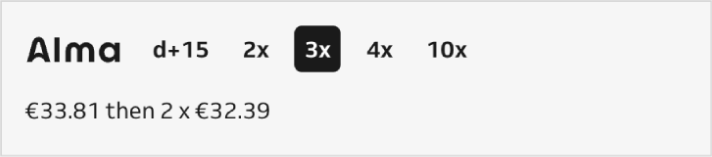
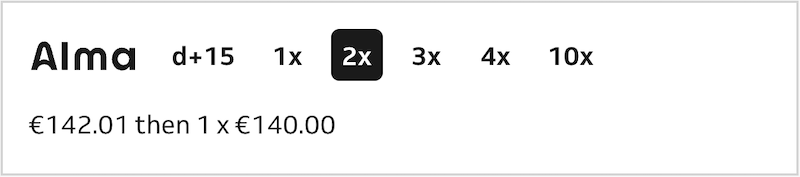
review [fra] variable $isPayNow with key plan

diff --git a/alma/controllers/hook/DisplayPaymentHookController.php b/alma/controllers/hook/DisplayPaymentHookController.php
@@ -31,6 +31,7 @@ if (!defined('_PS_VERSION_')) {
 use Alma\PrestaShop\API\EligibilityHelper;
 use Alma\PrestaShop\Hooks\FrontendHookController;
 use Alma\PrestaShop\Model\CartData;
+use Alma\PrestaShop\Utils\PlanHelper;
 use Alma\PrestaShop\Utils\Settings;
 use Alma\PrestaShop\Utils\SettingsCustomFields;
 use Cart;
@@ -82,7 +83,7 @@ class DisplayPaymentHookController extends FrontendHookController
                 'taeg' => $plan->annualInterestRate,
             ];
             $isDeferred = Settings::isDeferred($plan);
-            $isPayNow = $installment === 1;
+            $isPayNow = $key === PlanHelper::ALMA_KEY_PAYNOW;
 
             if (!$plan->isEligible) {
                 if ($feePlans->$key->enabled && Settings::showDisabledButton()) {
@@ -106,7 +107,7 @@ class DisplayPaymentHookController extends FrontendHookController
                 'pnx' => $installment,
                 'logo' => $logo,
                 'plans' => $plans,
-                'installmentText' => $this->getInstallmentText($plans, $idLang, Settings::isDeferredTriggerLimitDays($feePlans, $key), $isDeferred),
+                'installmentText' => $this->getInstallmentText($plans, $idLang, Settings::isDeferredTriggerLimitDays($feePlans, $key), $isPayNow),
                 'deferred_trigger_limit_days' => $feePlans->$key->deferred_trigger_limit_days,
                 'isDeferred' => $isDeferred,
                 'text' => sprintf(SettingsCustomFields::getPnxButtonTitleByLang($idLang), $installment),
@@ -123,7 +124,7 @@ class DisplayPaymentHookController extends FrontendHookController
                 $paymentOption['text'] = sprintf(SettingsCustomFields::getPaymentButtonTitleDeferredByLang($idLang), $duration);
                 $paymentOption['desc'] = sprintf(SettingsCustomFields::getPaymentButtonDescriptionDeferredByLang($idLang), $duration);
             }
-            if (!$isDeferred && $isPayNow) {
+            if ($isPayNow) {
                 $paymentOption['text'] = SettingsCustomFields::getPayNowButtonTitleByLang($idLang);
                 $paymentOption['desc'] = SettingsCustomFields::getPayNowButtonDescriptionByLang($idLang);
             }
@@ -148,7 +149,7 @@ class DisplayPaymentHookController extends FrontendHookController
      *
      * @return string text one liner option
      */
-    private function getInstallmentText($plans, $idLang, $isDeferredTriggerLimitDays, $isDeferred)
+    private function getInstallmentText($plans, $idLang, $isDeferredTriggerLimitDays, $isPayNow)
     {
         $nbPlans = count($plans);
         $locale = Language::getIsoById($idLang);
@@ -169,7 +170,7 @@ class DisplayPaymentHookController extends FrontendHookController
                 almaFormatPrice($plans[1]['total_amount'])
             );
         }
-        if ($nbPlans === 1 && !$isDeferred) {
+        if ($isPayNow) {
             return '';
         }
 

diff --git a/alma/translations/fr.php b/alma/translations/fr.php
@@ -1,8 +1,29 @@
 <?php
-
+/**
+ * 2018-2023 Alma SAS
+ *
+ * THE MIT LICENSE
+ *
+ * Permission is hereby granted, free of charge, to any person obtaining a copy of this software and associated
+ * documentation files (the "Software"), to deal in the Software without restriction, including without limitation
+ * the rights to use, copy, modify, merge, publish, distribute, sublicense, and/or sell copies of the Software, and
+ * to permit persons to whom the Software is furnished to do so, subject to the following conditions:
+ * The above copyright notice and this permission notice shall be included in all copies or substantial portions of the
+ * Software.
+ *
+ * THE SOFTWARE IS PROVIDED "AS IS", WITHOUT WARRANTY OF ANY KIND, EXPRESS OR IMPLIED, INCLUDING BUT NOT LIMITED TO THE
+ * WARRANTIES OF MERCHANTABILITY, FITNESS FOR A PARTICULAR PURPOSE AND NONINFRINGEMENT. IN NO EVENT SHALL THE
+ * AUTHORS OR COPYRIGHT HOLDERS BE LIABLE FOR ANY CLAIM, DAMAGES OR OTHER LIABILITY, WHETHER IN AN ACTION OF
+ * CONTRACT, TORT OR OTHERWISE, ARISING FROM, OUT OF OR IN CONNECTION WITH THE SOFTWARE OR THE USE OR OTHER DEALINGS
+ * IN THE SOFTWARE.
+ *
+ * @author    Alma SAS <contact@getalma.eu>
+ * @copyright 2018-2023 Alma SAS
+ * @license   https://opensource.org/licenses/MIT The MIT License
+ */
 global $_MODULE;
-$_MODULE = array();
-$_MODULE['<{alma}prestashop>alma_d4b3f55d02c6448c36a233c1f1c27a18'] = ' 2x 3x 4x, J+15 ou J+30 Alma — Paiement en plusieurs fois et différé';
+$_MODULE = [];
+$_MODULE['<{alma}prestashop>alma_d4b3f55d02c6448c36a233c1f1c27a18'] = ' 1x 2x 3x 4x, J+15 ou J+30 Alma — Paiement en plusieurs fois et différé';
 $_MODULE['<{alma}prestashop>alma_7f9c508fa226d3e72644403653115c29'] = 'Boostez vos ventes en installant Alma ! C\'est simple et garanti, votre trésorerie est sécurisée. 0 engagement, 0 abonnement, 0 risque.';
 $_MODULE['<{alma}prestashop>alma_ce67a7d4b82bc360a17d25943924b388'] = 'Voulez-vous vraiment supprimer les paiements Alma de votre boutique ?';
 $_MODULE['<{alma}prestashop>alma_7bab99339291e7eea710b4a998e663de'] = 'Alma nécessite l\'extension PHP cURL';

diff --git a/alma/controllers/hook/PaymentOptionsHookController.php b/alma/controllers/hook/PaymentOptionsHookController.php
@@ -31,6 +31,7 @@ if (!defined('_PS_VERSION_')) {
 use Alma\PrestaShop\API\EligibilityHelper;
 use Alma\PrestaShop\Hooks\FrontendHookController;
 use Alma\PrestaShop\Model\CartData;
+use Alma\PrestaShop\Utils\PlanHelper;
 use Alma\PrestaShop\Utils\Settings;
 use Alma\PrestaShop\Utils\SettingsCustomFields;
 use Cart;
@@ -114,7 +115,7 @@ class PaymentOptionsHookController extends FrontendHookController
             }
             $isDeferred = Settings::isDeferred($plan);
             $duration = Settings::getDuration($plan);
-            $isPayNow = $installment === 1;
+            $isPayNow = $key === PlanHelper::ALMA_KEY_PAYNOW;
             $fileTemplate = 'payment_button_pnx.tpl';
             $valueBNPL = $installment;
             $textPaymentButton = sprintf(SettingsCustomFields::getPnxButtonTitleByLang($idLang), $installment);
@@ -129,7 +130,7 @@ class PaymentOptionsHookController extends FrontendHookController
                 $textPaymentButton = sprintf(SettingsCustomFields::getPaymentButtonTitleDeferredByLang($idLang), $duration);
                 $descPaymentButton = sprintf(SettingsCustomFields::getPaymentButtonDescriptionDeferredByLang($idLang), $duration);
             }
-            if (!$isDeferred && $isPayNow) {
+            if ($isPayNow) {
                 $textPaymentButton = SettingsCustomFields::getPayNowButtonTitleByLang($idLang);
                 $descPaymentButton = SettingsCustomFields::getPayNowButtonDescriptionByLang($idLang);
             }

diff --git a/alma/lib/Utils/PlanHelper.php b/alma/lib/Utils/PlanHelper.php
@@ -1,0 +1,37 @@
+<?php
+/**
+ * 2018-2023 Alma SAS
+ *
+ * THE MIT LICENSE
+ *
+ * Permission is hereby granted, free of charge, to any person obtaining a copy of this software and associated
+ * documentation files (the "Software"), to deal in the Software without restriction, including without limitation
+ * the rights to use, copy, modify, merge, publish, distribute, sublicense, and/or sell copies of the Software, and
+ * to permit persons to whom the Software is furnished to do so, subject to the following conditions:
+ * The above copyright notice and this permission notice shall be included in all copies or substantial portions of the
+ * Software.
+ *
+ * THE SOFTWARE IS PROVIDED "AS IS", WITHOUT WARRANTY OF ANY KIND, EXPRESS OR IMPLIED, INCLUDING BUT NOT LIMITED TO THE
+ * WARRANTIES OF MERCHANTABILITY, FITNESS FOR A PARTICULAR PURPOSE AND NONINFRINGEMENT. IN NO EVENT SHALL THE
+ * AUTHORS OR COPYRIGHT HOLDERS BE LIABLE FOR ANY CLAIM, DAMAGES OR OTHER LIABILITY, WHETHER IN AN ACTION OF
+ * CONTRACT, TORT OR OTHERWISE, ARISING FROM, OUT OF OR IN CONNECTION WITH THE SOFTWARE OR THE USE OR OTHER DEALINGS
+ * IN THE SOFTWARE.
+ *
+ * @author    Alma SAS <contact@getalma.eu>
+ * @copyright 2018-2023 Alma SAS
+ * @license   https://opensource.org/licenses/MIT The MIT License
+ */
+
+namespace Alma\PrestaShop\Utils;
+
+if (!defined('_PS_VERSION_')) {
+    exit;
+}
+
+/**
+ * Class PlanHelper
+ */
+class PlanHelper
+{
+    const ALMA_KEY_PAYNOW = 'general_1_0_0';
+}

diff --git a/alma/translations/nl.php b/alma/translations/nl.php
@@ -23,7 +23,7 @@
  */
 global $_MODULE;
 $_MODULE = [];
-$_MODULE['<{alma}prestashop>alma_d4b3f55d02c6448c36a233c1f1c27a18'] = '2x 3x 4x, D+15 of D+30 Alma - Betalen in termijnen en uitgestelde betalingen met Alma';
+$_MODULE['<{alma}prestashop>alma_d4b3f55d02c6448c36a233c1f1c27a18'] = '1x 2x 3x 4x, D+15 of D+30 Alma - Betalen in termijnen en uitgestelde betalingen met Alma';
 $_MODULE['<{alma}prestashop>alma_7f9c508fa226d3e72644403653115c29'] = 'Verkoop meer door uw klanttevredenheid een boost te geven! Verzeker uw inkomsten met Alma, eenvoudig en gegarandeerd gespreid betalen';
 $_MODULE['<{alma}prestashop>alma_ce67a7d4b82bc360a17d25943924b388'] = 'Wilt u echt gespreid betalen van Alma uit uw winkel verwijderen?';
 $_MODULE['<{alma}prestashop>alma_7bab99339291e7eea710b4a998e663de'] = 'Voor Alma is een PHP cURL extensie nodig.';

diff --git a/alma/translations/de.php b/alma/translations/de.php
@@ -23,7 +23,7 @@
  */
 global $_MODULE;
 $_MODULE = [];
-$_MODULE['<{alma}prestashop>alma_d4b3f55d02c6448c36a233c1f1c27a18'] = '2x 3x 4x, D+15 oder D+30 Alma – Ratenzahlung und Zahlungsaufschub';
+$_MODULE['<{alma}prestashop>alma_d4b3f55d02c6448c36a233c1f1c27a18'] = '1x 2x 3x 4x, D+15 oder D+30 Alma – Ratenzahlung und Zahlungsaufschub';
 $_MODULE['<{alma}prestashop>alma_7f9c508fa226d3e72644403653115c29'] = 'Verkaufen Sie mehr, indem Sie die Zufriedenheit Ihrer Kunden erhöhen! Sichern Sie Ihre Liquidität mit Alma, der einfachen und garantierten Ratenzahlung';
 $_MODULE['<{alma}prestashop>alma_ce67a7d4b82bc360a17d25943924b388'] = 'Sind Sie sicher, dass Sie die Alma-Zahlungen in Ihrem Shop deaktivieren möchten?';
 $_MODULE['<{alma}prestashop>alma_7bab99339291e7eea710b4a998e663de'] = 'Alma erfordert die PHP-cURL-Erweiterung';

diff --git a/alma/translations/es.php b/alma/translations/es.php
@@ -23,7 +23,7 @@
  */
 global $_MODULE;
 $_MODULE = [];
-$_MODULE['<{alma}prestashop>alma_d4b3f55d02c6448c36a233c1f1c27a18'] = '2x 3x 4x, D+15 o D+30 Alma — Pago a plazos y diferido con Alma';
+$_MODULE['<{alma}prestashop>alma_d4b3f55d02c6448c36a233c1f1c27a18'] = '1x 2x 3x 4x, D+15 o D+30 Alma — Pago a plazos y diferido con Alma';
 $_MODULE['<{alma}prestashop>alma_7f9c508fa226d3e72644403653115c29'] = '¡Vende más y aumenta la satisfacción de tus Clientes! Asegura tus ventas con Alma, el pago aplazado, simple y garantizado';
 $_MODULE['<{alma}prestashop>alma_ce67a7d4b82bc360a17d25943924b388'] = '¿Estás seguro/a de que quieres desactivar el pagos aplazado con Alma de tu tienda?';
 $_MODULE['<{alma}prestashop>alma_7bab99339291e7eea710b4a998e663de'] = 'Alma requiere la extensión PHP CURL.';

diff --git a/alma/translations/it.php b/alma/translations/it.php
@@ -23,7 +23,7 @@
  */
 global $_MODULE;
 $_MODULE = [];
-$_MODULE['<{alma}prestashop>alma_d4b3f55d02c6448c36a233c1f1c27a18'] = '2x 3x 4x, D+15 o D+30 Alma - Pagamenti a rate e differiti';
+$_MODULE['<{alma}prestashop>alma_d4b3f55d02c6448c36a233c1f1c27a18'] = '1x 2x 3x 4x, D+15 o D+30 Alma - Pagamenti a rate e differiti';
 $_MODULE['<{alma}prestashop>alma_7f9c508fa226d3e72644403653115c29'] = 'Vendi di più aumentando la soddisfazione cliente! Metti al sicuro le tue liquidità con Alma, il pagamento a rate semplice e garantito.';
 $_MODULE['<{alma}prestashop>alma_ce67a7d4b82bc360a17d25943924b388'] = 'Sei sicuro di voler disattivare i pagamenti Alma dal tuo negozio?';
 $_MODULE['<{alma}prestashop>alma_7bab99339291e7eea710b4a998e663de'] = 'Alma richiede l\'estensione PHP cURL';

diff --git a/alma/translations/pt.php b/alma/translations/pt.php
@@ -23,7 +23,7 @@
  */
 global $_MODULE;
 $_MODULE = [];
-$_MODULE['<{alma}prestashop>alma_d4b3f55d02c6448c36a233c1f1c27a18'] = '2x 3x 4x, D+15 ou D+30 Alma - Pagamento em prestações e em diferido';
+$_MODULE['<{alma}prestashop>alma_d4b3f55d02c6448c36a233c1f1c27a18'] = '1x 2x 3x 4x, D+15 ou D+30 Alma - Pagamento em prestações e em diferido';
 $_MODULE['<{alma}prestashop>alma_7f9c508fa226d3e72644403653115c29'] = 'Ofereça aos seus clientes uma opção de pagamento em prestações fácil e segura';
 $_MODULE['<{alma}prestashop>alma_ce67a7d4b82bc360a17d25943924b388'] = 'Tem a certeza que quer desativar os pagamentos da Alma na sua loja?';
 $_MODULE['<{alma}prestashop>alma_7bab99339291e7eea710b4a998e663de'] = 'A Alma requer a extensão CURL PHP';

diff --git a/alma/translations/en.php b/alma/translations/en.php
@@ -23,7 +23,7 @@
  */
 global $_MODULE;
 $_MODULE = [];
-$_MODULE['<{alma}prestashop>alma_d4b3f55d02c6448c36a233c1f1c27a18'] = '2x 3x 4x, D+15 or D+30 Alma - Payment in instalments and deferred';
+$_MODULE['<{alma}prestashop>alma_d4b3f55d02c6448c36a233c1f1c27a18'] = '1x 2x 3x 4x, D+15 or D+30 Alma - Payment in instalments and deferred';
 $_MODULE['<{alma}prestashop>alma_7f9c508fa226d3e72644403653115c29'] = 'Offer an easy and safe installments payments option to your customers';
 $_MODULE['<{alma}prestashop>alma_ce67a7d4b82bc360a17d25943924b388'] = 'Are you sure you want to deactivate Alma payments from your shop?';
 $_MODULE['<{alma}prestashop>alma_7bab99339291e7eea710b4a998e663de'] = 'Alma requires the CURL PHP extension.';

diff --git a/alma/alma.php b/alma/alma.php
@@ -68,7 +68,7 @@ class Alma extends PaymentModule
 
         parent::__construct();
 
-        $this->displayName = $this->l('2x 3x 4x, D+15 or D+30 Alma - Payment in instalments and deferred', 'alma');
+        $this->displayName = $this->l('1x 2x 3x 4x, D+15 or D+30 Alma - Payment in instalments and deferred', 'alma');
         $this->description = $this->l('Offer an easy and safe installments payments option to your customers', 'alma');
         $this->confirmUninstall = $this->l('Are you sure you want to deactivate Alma payments from your shop?', 'alma');
 
